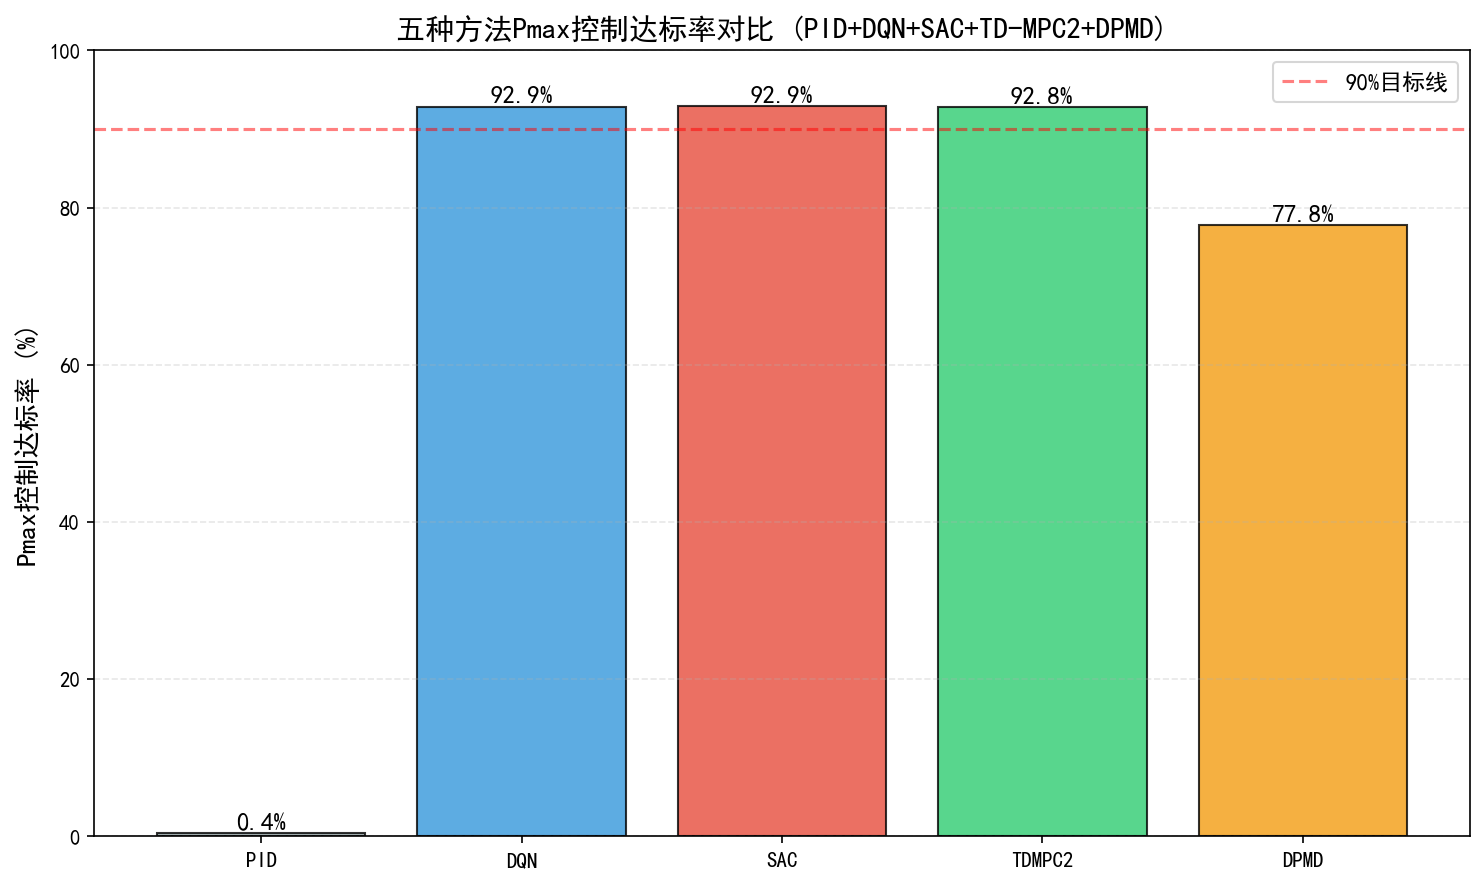
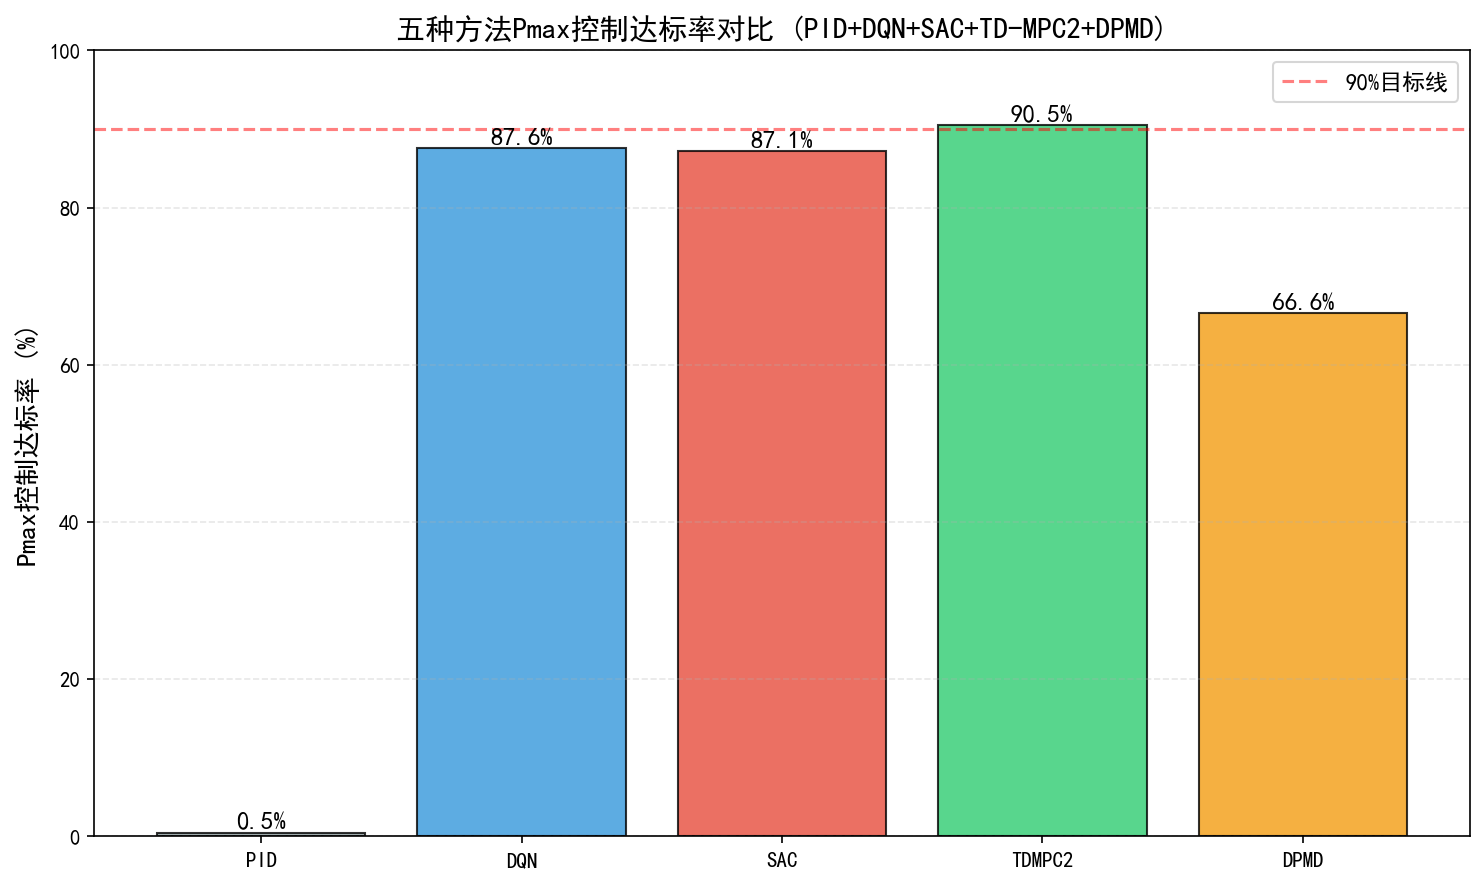
feat: 更新实验结果和报告，调整评分和参数

Changed region(s): [[0.279, 0.0916, 0.7749, 0.1833], [0.8059, 0.2138, 0.9609, 0.3665], [0.155, 0.9163, 0.186, 0.9468]]

diff --git a/results/comparison/experiment_report.md b/results/comparison/experiment_report.md
@@ -1,6 +1,6 @@
 # 柴油机控制方法对比实验报告
 
-生成时间: 2026-01-23 05:42:07
+生成时间: 2026-01-23 13:31:08
 
 ## 实验配置
 - 训练Episodes: 400
@@ -19,14 +19,14 @@
 ## 实验结果
 | 排名 | 方法 | 综合评分 | 达标率 | 平均奖励 | 收敛Episode |
 |------|------|----------|--------|----------|-------------|
-| 1 | DQN | 122.29 | 92.9% | 1753.23 | 9 |
-| 2 | SAC | 121.96 | 92.9% | 1762.07 | 13 |
-| 3 | TDMPC2 | 113.18 | 92.8% | 1727.79 | 4 |
-| 4 | DPMD | 97.72 | 77.8% | 1211.24 | 35 |
-| 5 | PID | -1.28 | 0.4% | -1148.54 | 0 |
+| 1 | DQN | 120.00 | 87.6% | 1747.90 | 9 |
+| 2 | SAC | 118.61 | 87.1% | 1765.21 | 13 |
+| 3 | TDMPC2 | 109.70 | 90.5% | 1689.12 | 4 |
+| 4 | DPMD | 89.40 | 66.6% | 1122.92 | 24 |
+| 5 | PID | -0.15 | 0.5% | -1111.54 | 0 |
 
 ## 结论
 
 **推荐方法: DQN**
 
-综合评分: 122.29
+综合评分: 120.00
